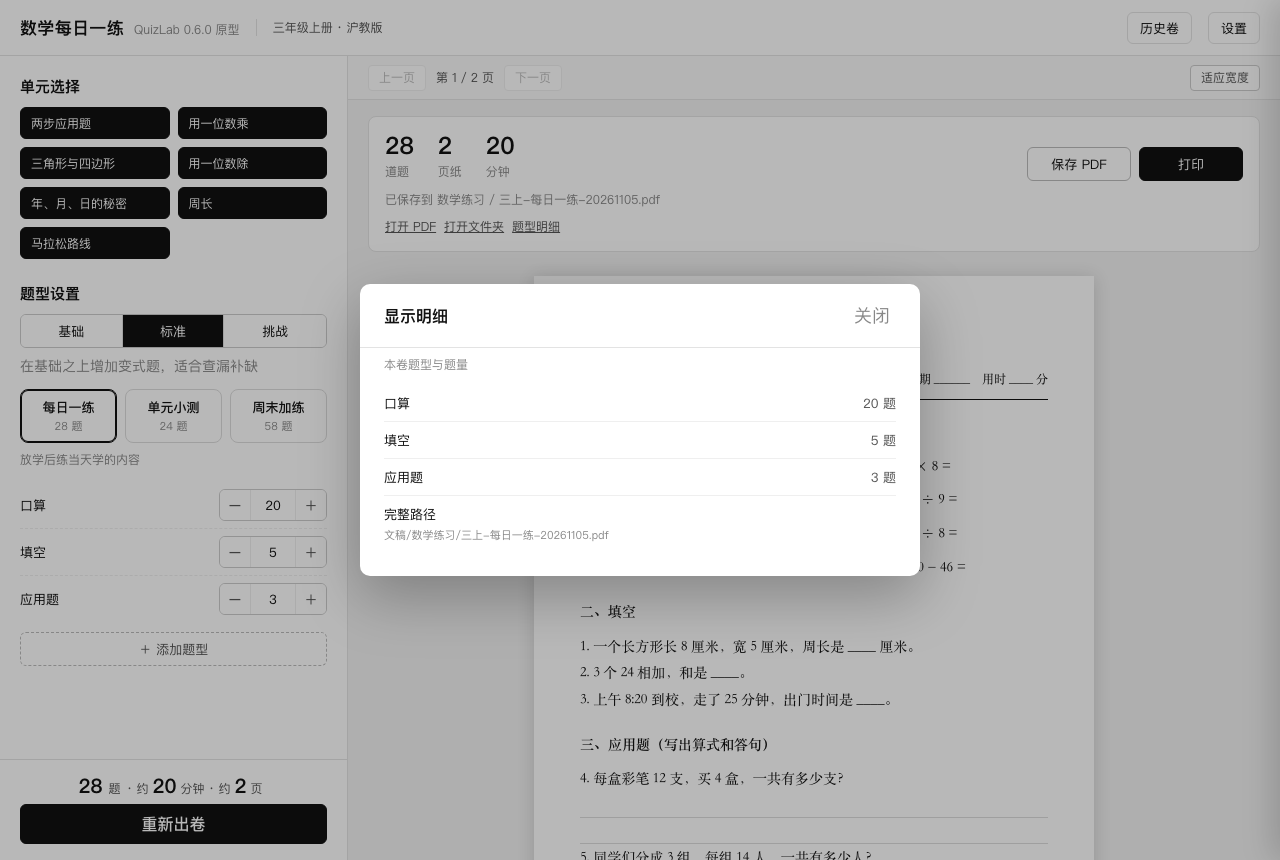
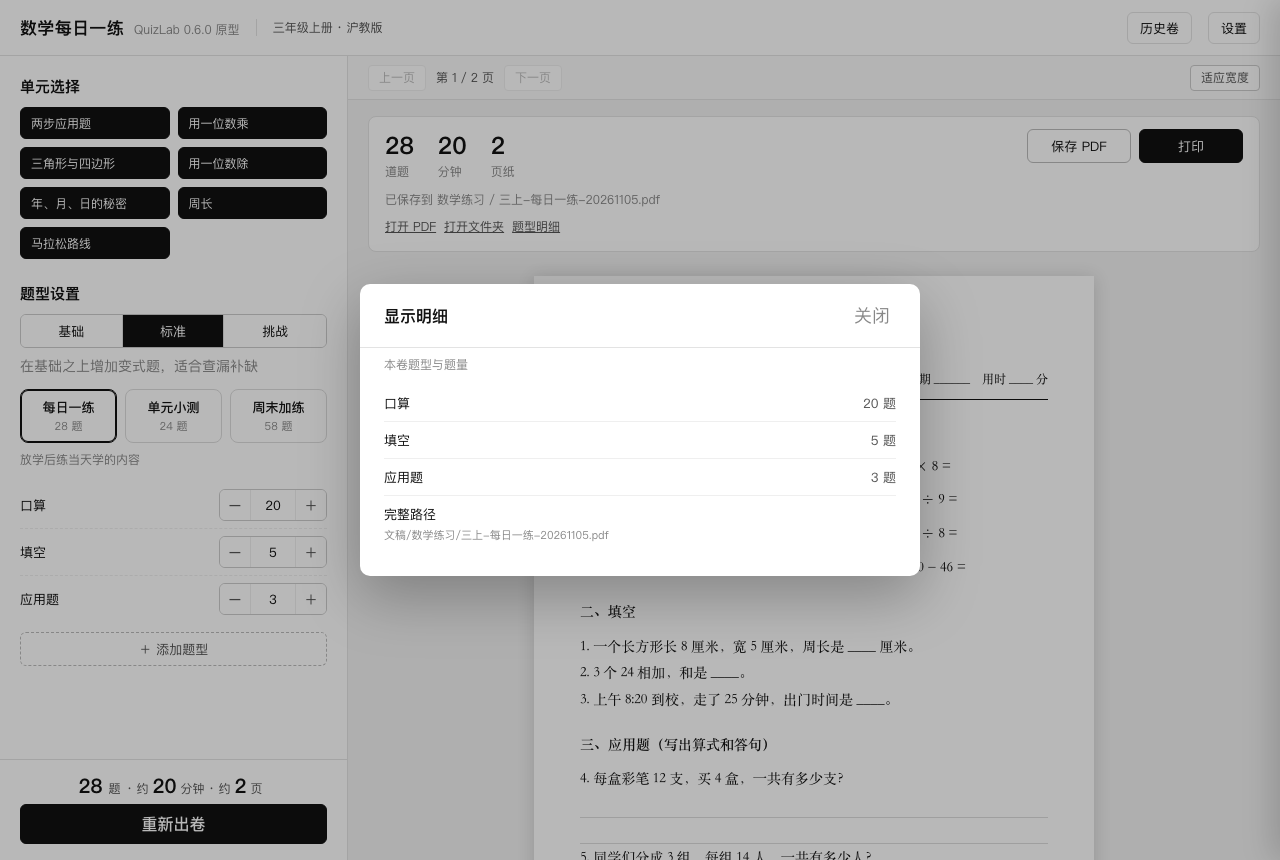
docs: 0.6.0 原型结果卡按钮对齐数字并调整统计顺序

Changed region(s): [[0.8125, 0.1512, 0.9688, 0.2116], [0.3438, 0.1512, 0.4062, 0.2116]]

diff --git a/docs/ui-prototype-0.6.0/index.html b/docs/ui-prototype-0.6.0/index.html
@@ -200,7 +200,8 @@
         margin: 16px 20px 0; padding: 16px; background: #fff; border: 1px solid var(--line); border-radius: var(--radius);
       }
       .result-card[hidden] { display: none; }
-      .rc-top { display: flex; align-items: flex-end; justify-content: space-between; gap: 16px; }
+      .rc-top { display: flex; align-items: flex-start; justify-content: space-between; gap: 16px; }
+      .rc-top > .row-actions { margin-top: -4px; }
       .figures { display: flex; gap: 24px; }
       .figure b { display: block; font-size: 24px; font-weight: 600; line-height: 1.1; }
       .figure small { font-size: 12px; color: var(--ink-3); }
@@ -397,8 +398,8 @@
           <div class="rc-top">
             <div class="figures">
               <div class="figure"><b id="rCount">28</b><small>道题</small></div>
-              <div class="figure"><b id="rPages">2</b><small>页纸</small></div>
               <div class="figure"><b id="rMinutes">20</b><small>分钟</small></div>
+              <div class="figure"><b id="rPages">2</b><small>页纸</small></div>
             </div>
             <div class="row-actions">
               <button class="secondary" id="saveBtn">保存 PDF</button>
